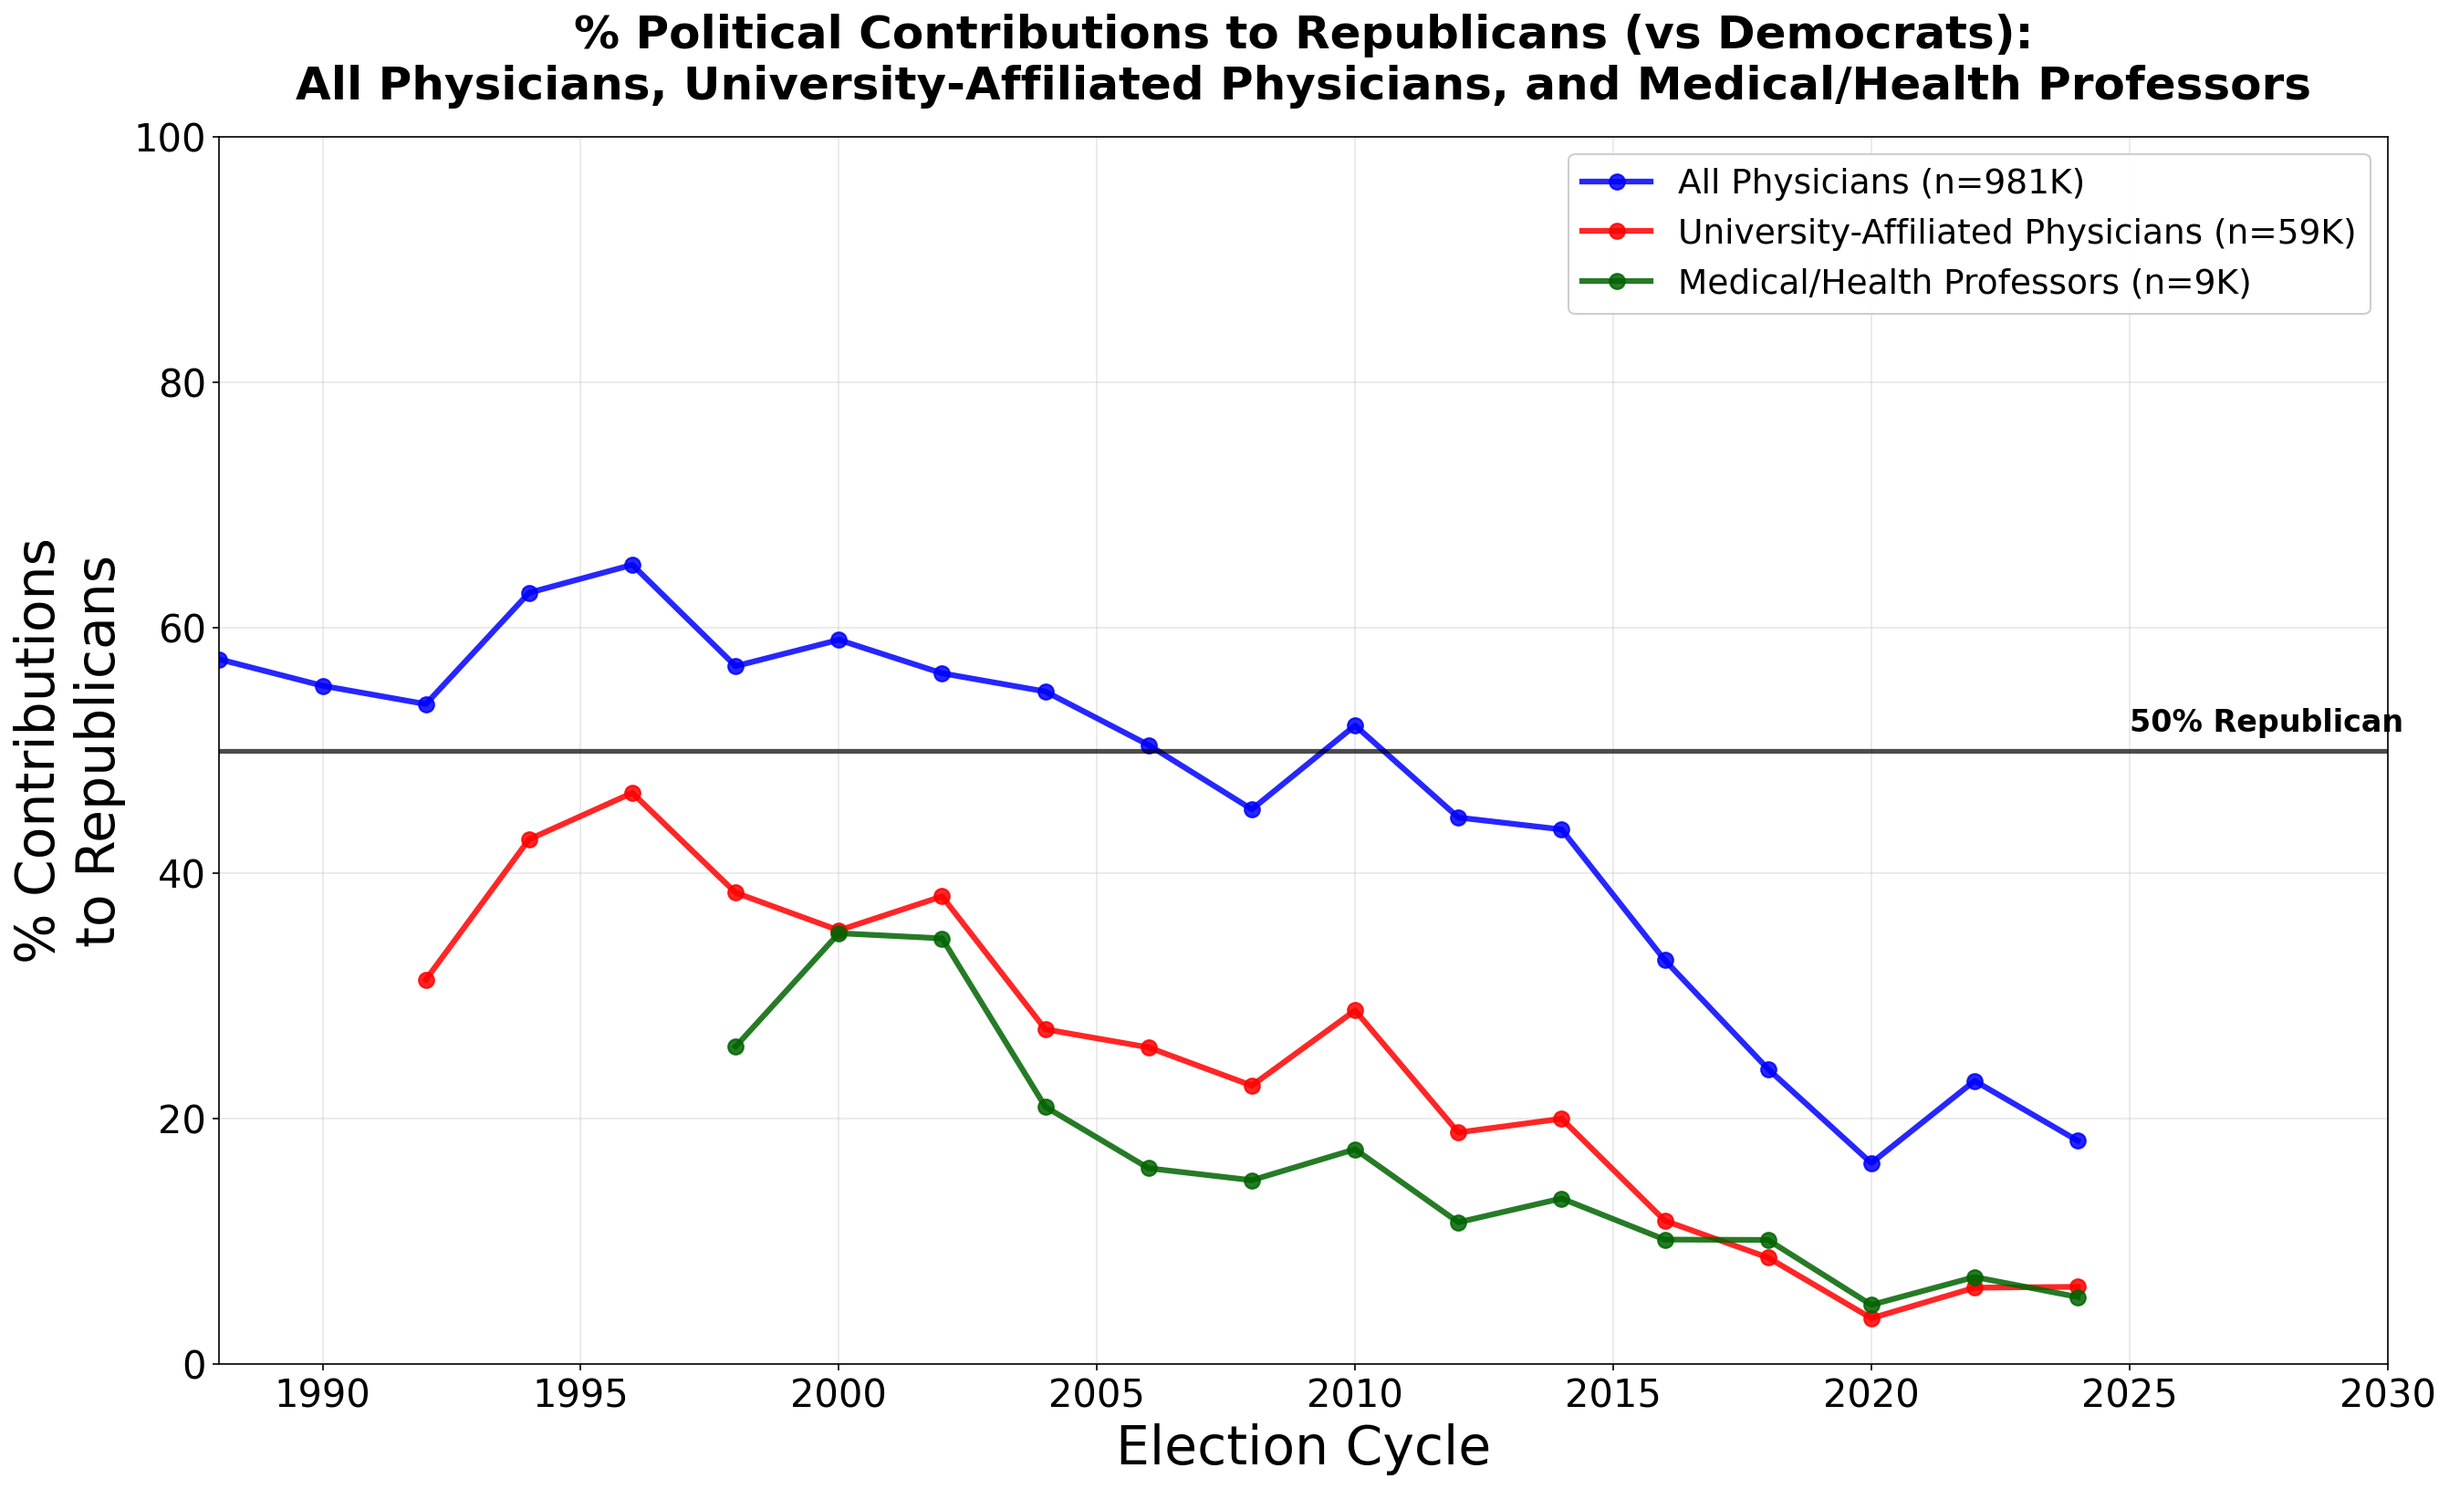
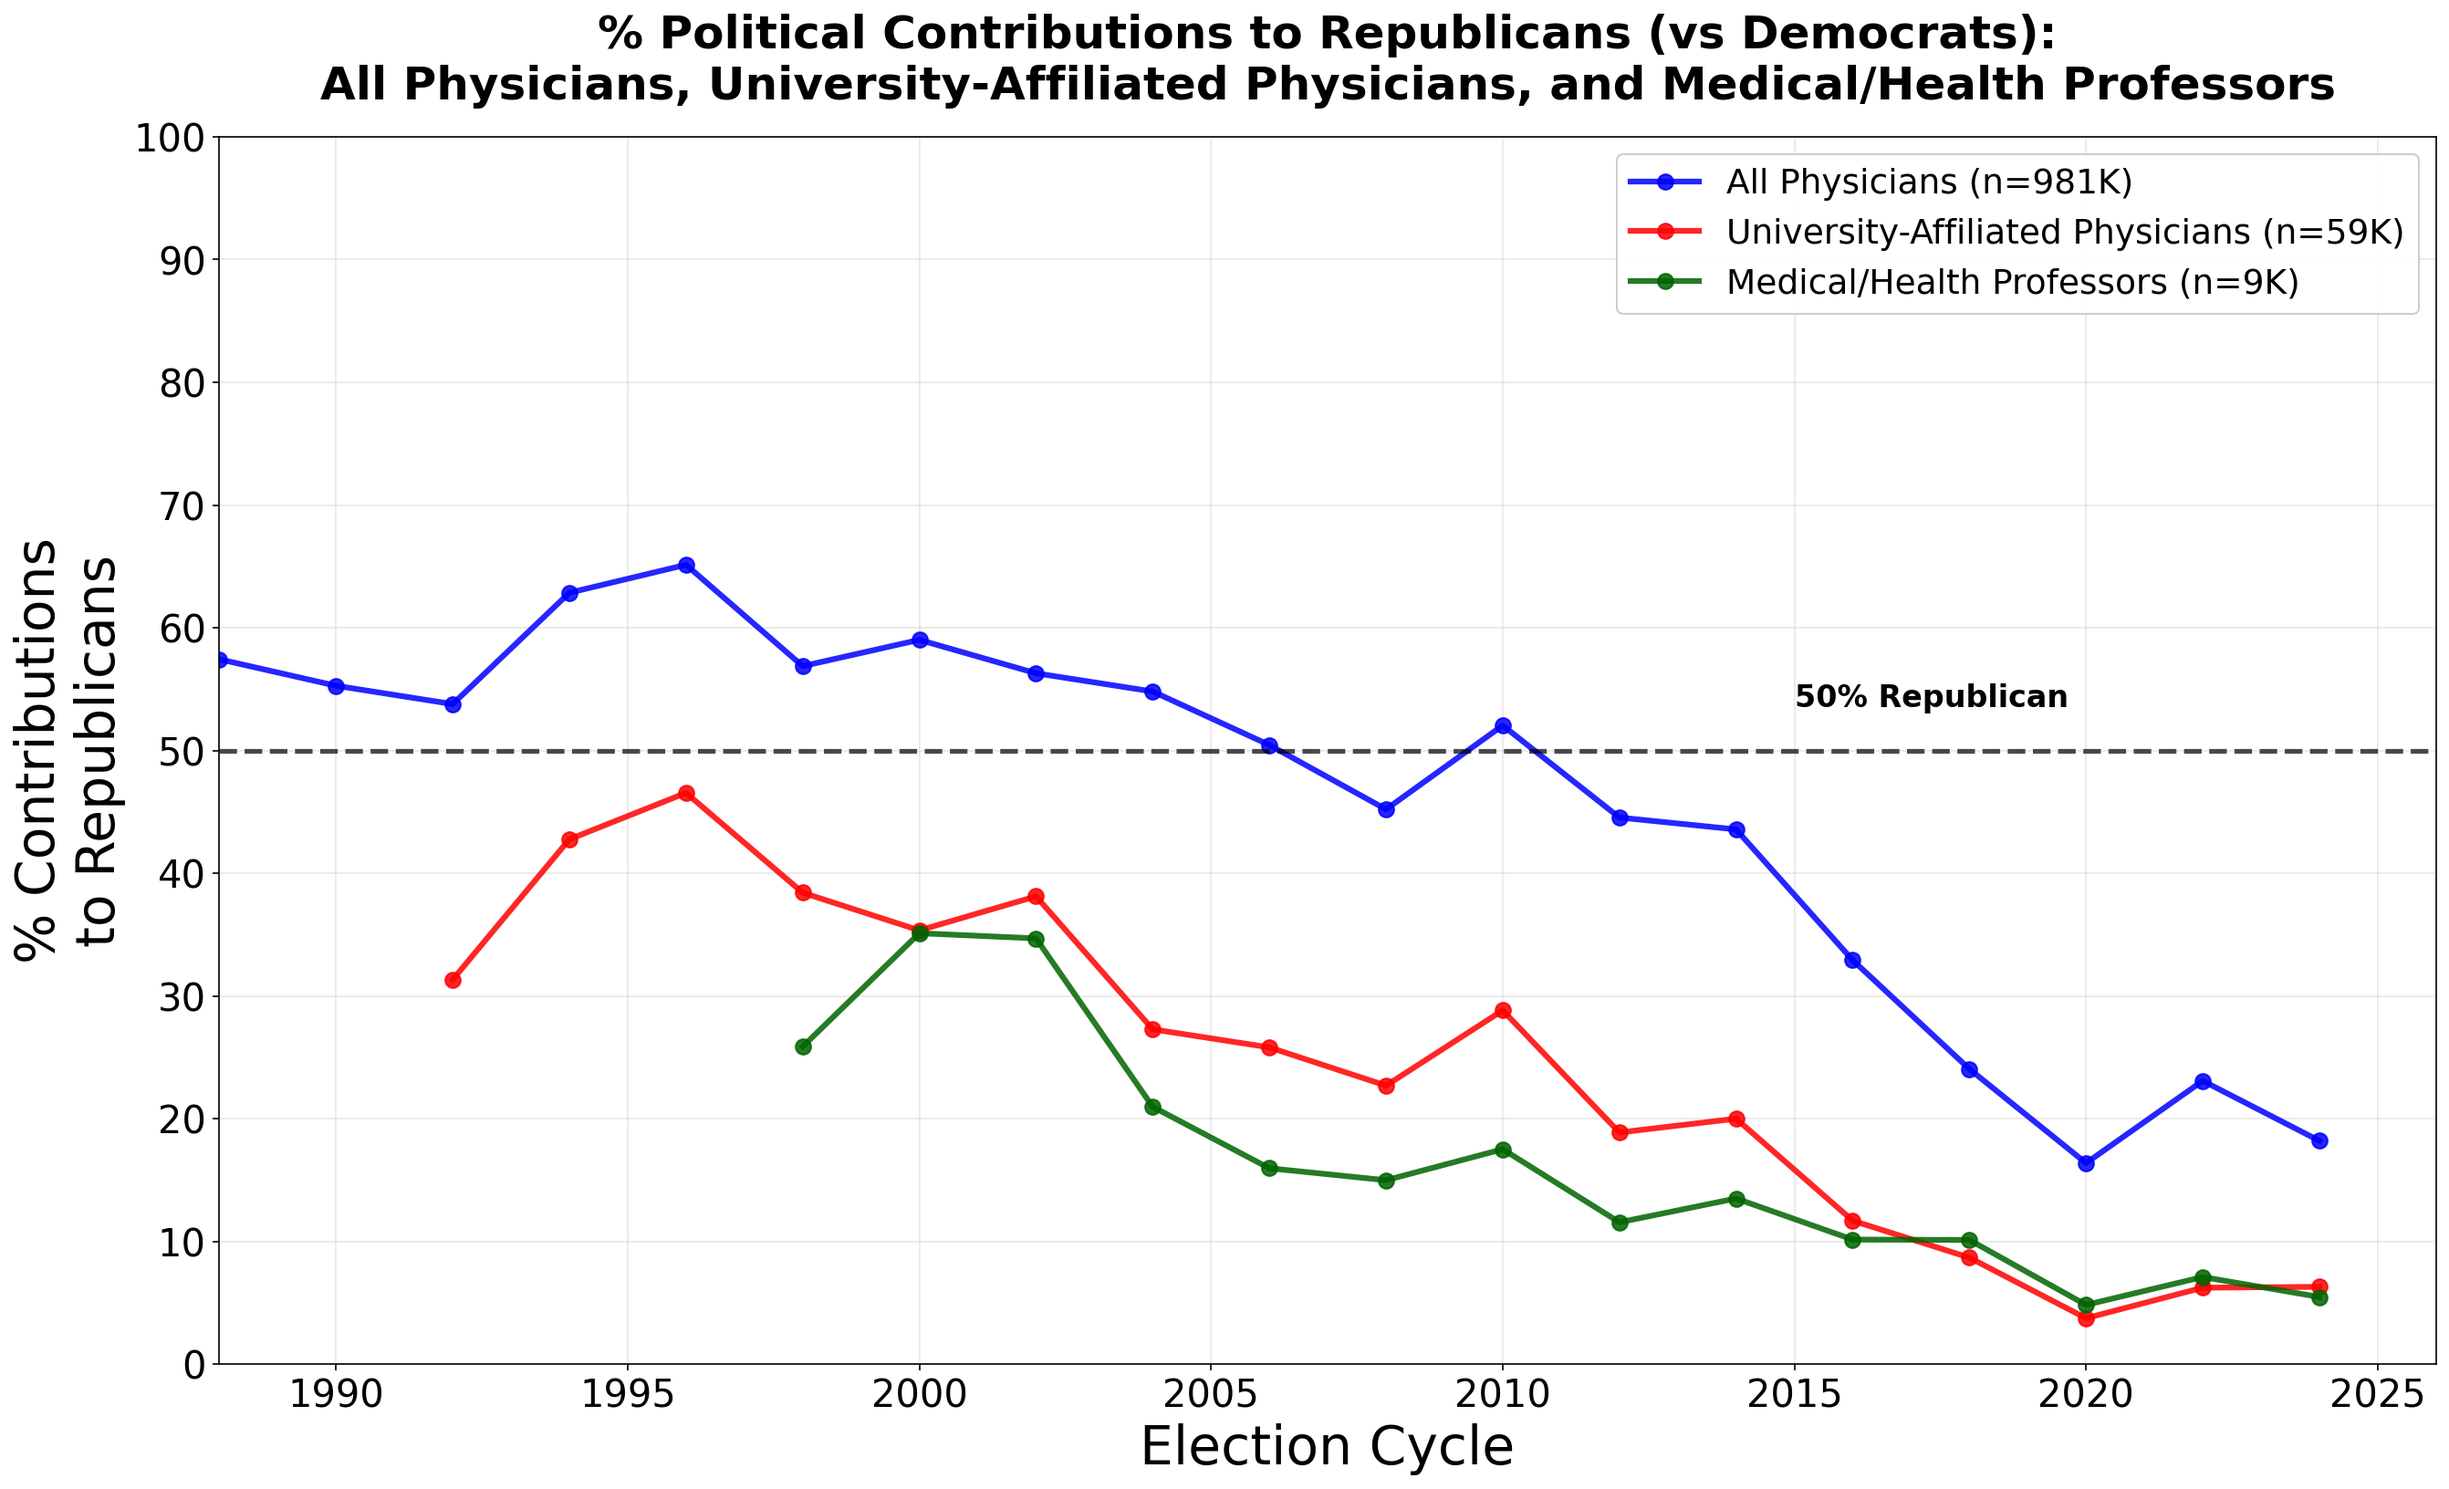
Update academic physicians plot: dashed 50% line, y-axis to 100%
- Changed 50% reference line to bold dashed style
- Extended y-axis to 100% with ticks every 10%
- Added "50% Republican" label above the line at 2015

🤖 Generated with [Claude Code](https://claude.com/claude-code)

diff --git a/replicate_figure.py b/replicate_figure.py
@@ -262,13 +262,17 @@ def plot_academic_physicians(output_path: Path, dpi: int = 150) -> None:
             alpha=0.85
         )
 
-    ax.axhline(y=50, color='gray', linestyle='--', alpha=0.5, linewidth=1.5)
+    # Bold dashed 50% line with label above
+    ax.axhline(y=50, color='black', linestyle='--', linewidth=2.5, alpha=0.7)
+    ax.text(2015, 53, '50% Republican', fontsize=16, va='bottom', ha='left', fontweight='bold')
+
     ax.set_xlabel('Election Cycle', fontsize=28)
     ax.set_ylabel('% Contributions\nto Republicans', fontsize=28)
     ax.set_title('% Political Contributions to Republicans (vs Democrats):\nAll Physicians, University-Affiliated Physicians, and Medical/Health Professors',
                  fontsize=24, fontweight='bold', pad=20)
     ax.set_xlim(1988, 2026)
-    ax.set_ylim(0, 70)
+    ax.set_ylim(0, 100)
+    ax.set_yticks(range(0, 101, 10))
     ax.legend(loc='upper right', fontsize=18, framealpha=0.95)
     ax.grid(True, alpha=0.3)
     ax.tick_params(axis='both', which='major', labelsize=20)
